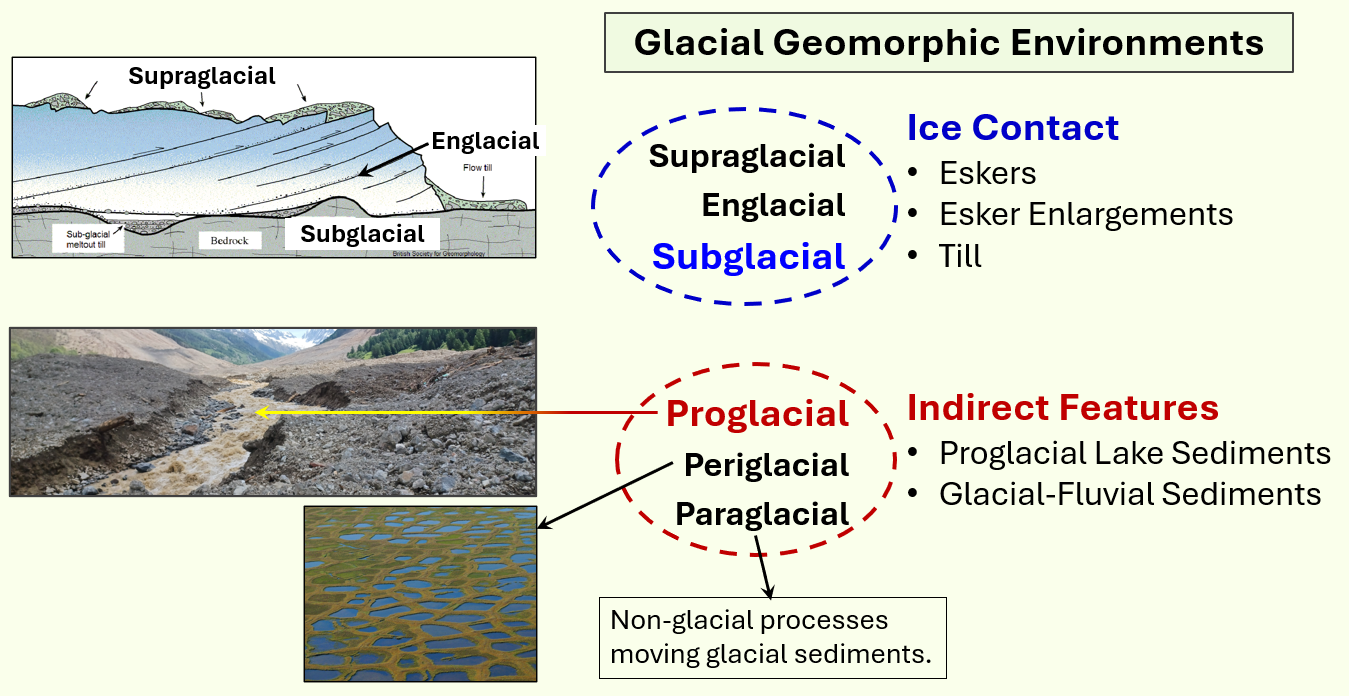
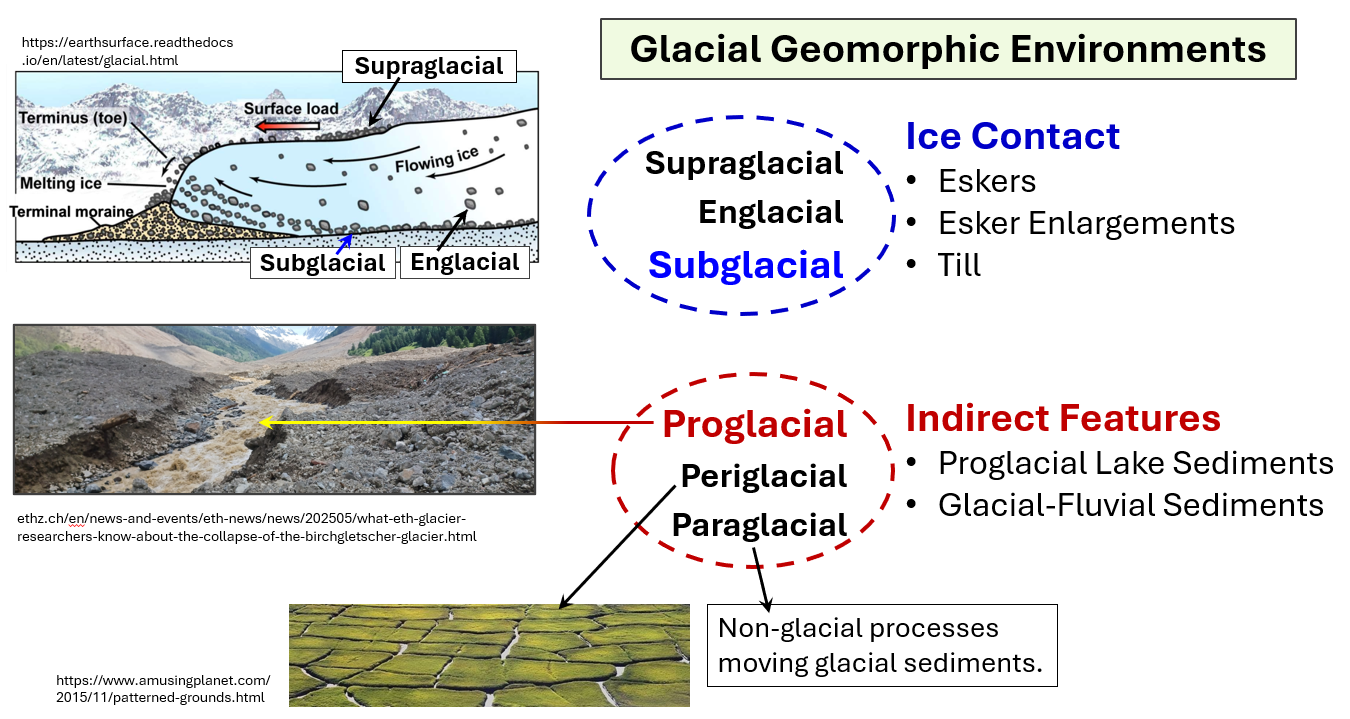
updated figures

diff --git a/Final_Project_Report/subArea_GlacialGeom.html b/Final_Project_Report/subArea_GlacialGeom.html
@@ -17,7 +17,7 @@
             </p>
 
         <img src="images/GlacialEnvironments.png" alt="GlacialEnv" height="400px">
-        <h4>Figure - Bedrock geology map of the Upper Naraguagus River.</h4>
+        <h4>Figure - Glacial Geomorphic Environments.</h4>
     </div>
     <hr>
 
